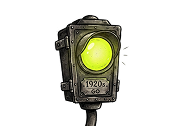
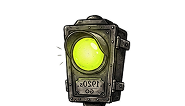
fix: фонари смещены почти в правый верхний угол фрейма
Отступ справа 20px -> 6px, посадка выше (перекрытие рамки 8px вместо 14)

Changed region(s): [[0.2973, 0.1132, 0.7297, 1.0]]

diff --git a/src/styles/app.css b/src/styles/app.css
@@ -38,10 +38,10 @@
 .frame__lamp {
   position: absolute;
   bottom: 100%;
-  right: 20px;
+  right: 6px;
   z-index: 1;
   width: 120px;
-  transform: translateY(14px);
+  transform: translateY(8px);
   user-select: none;
   pointer-events: none;
 }